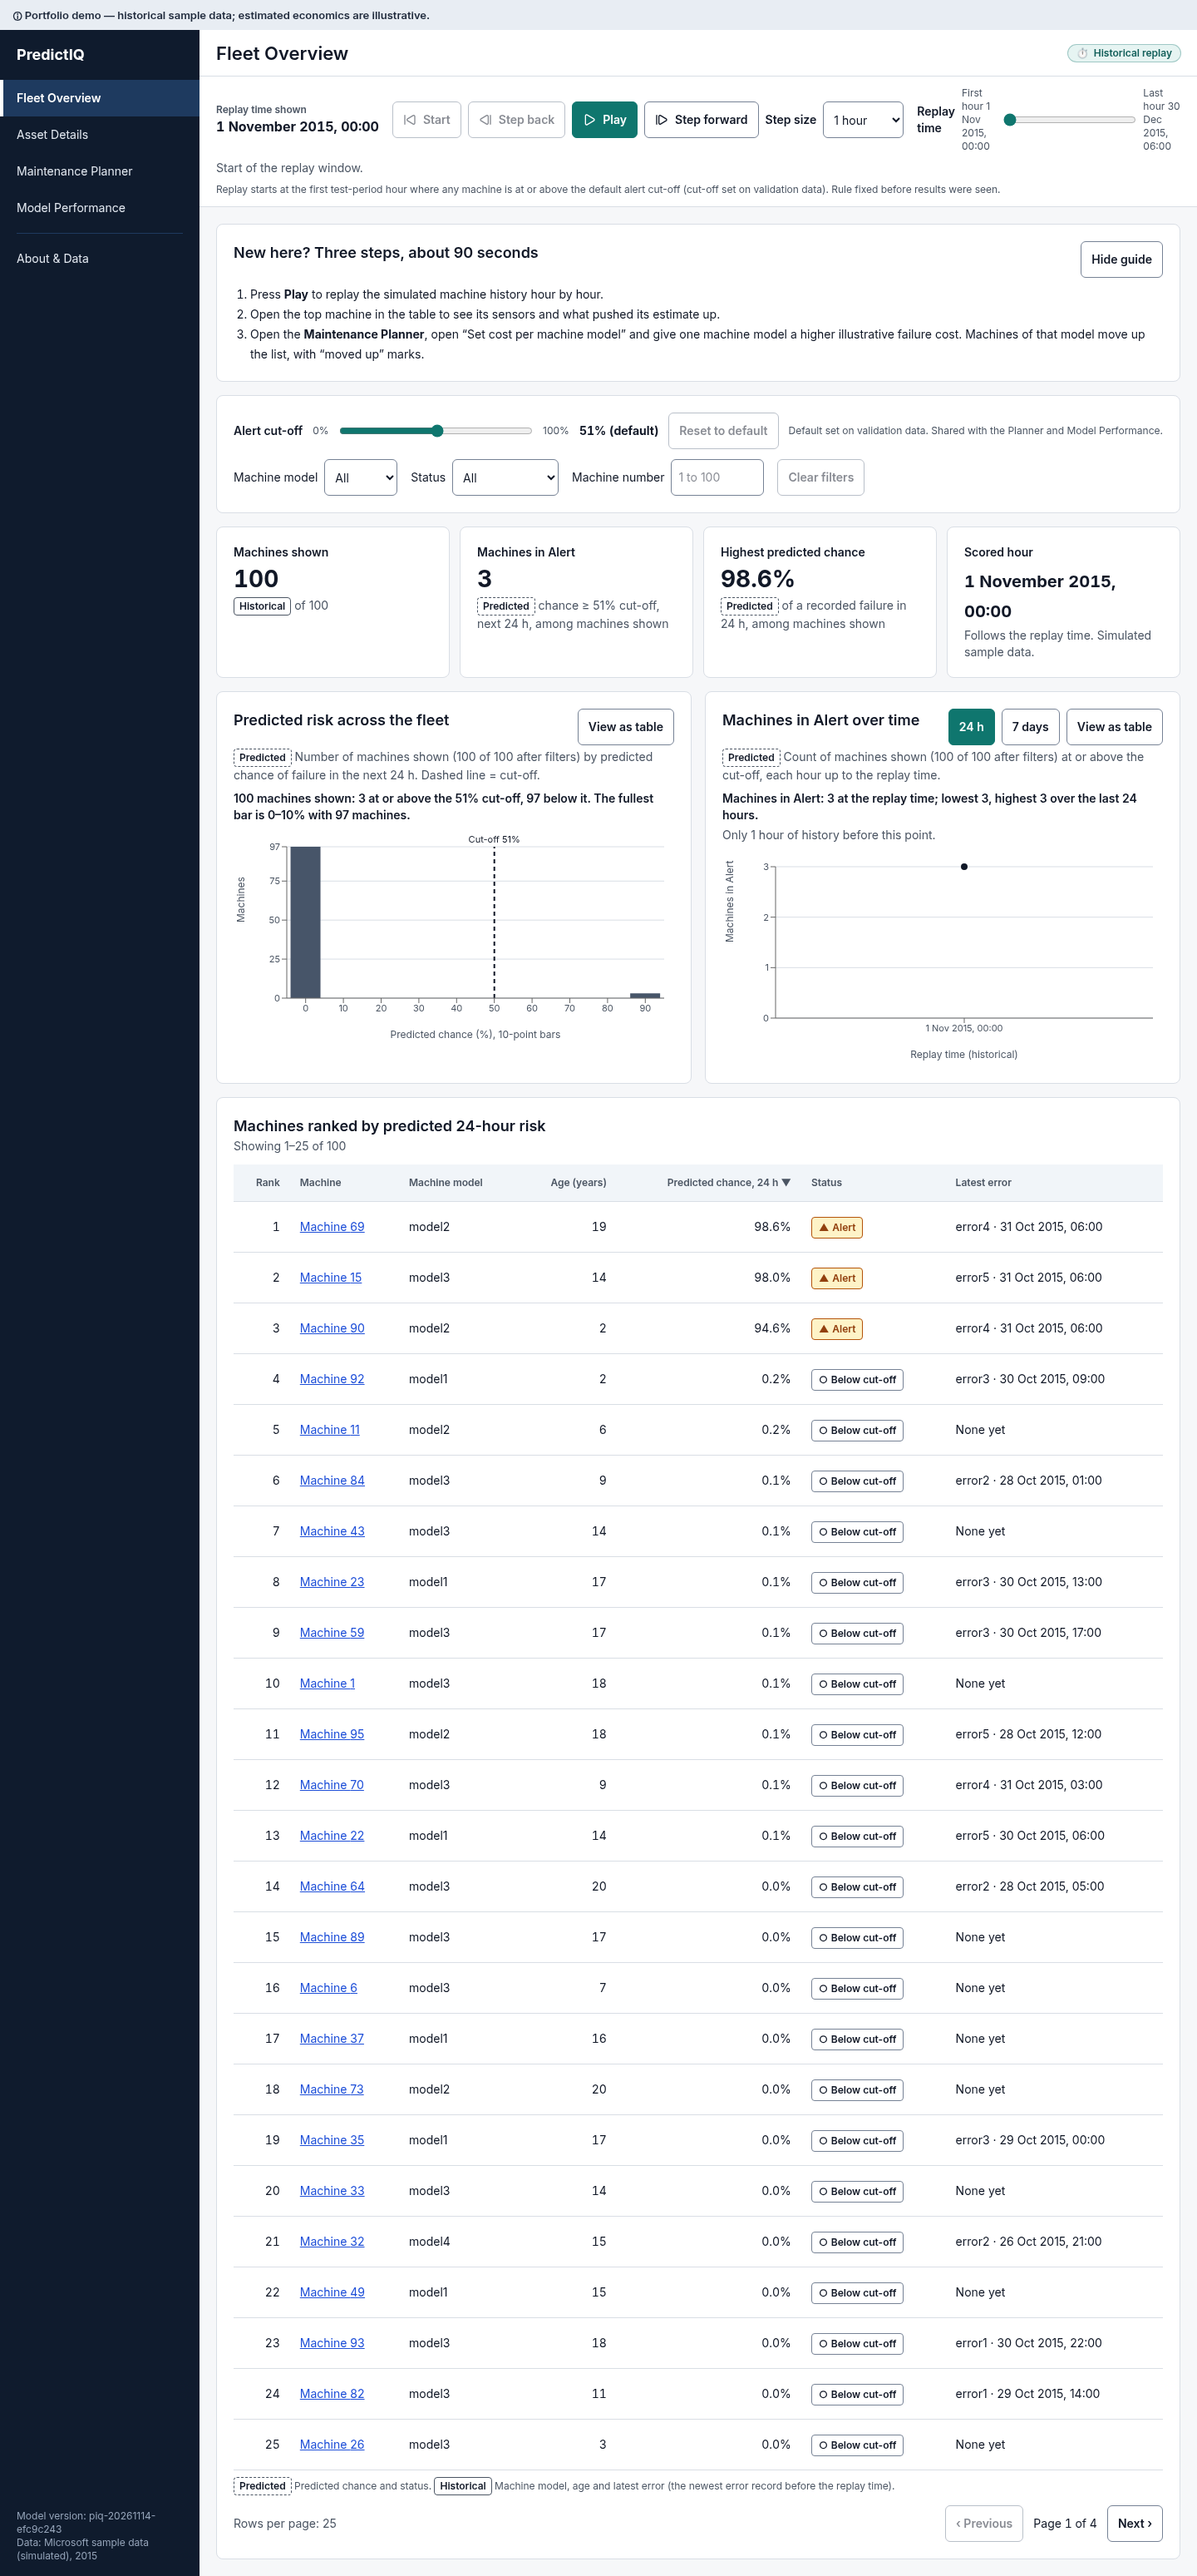
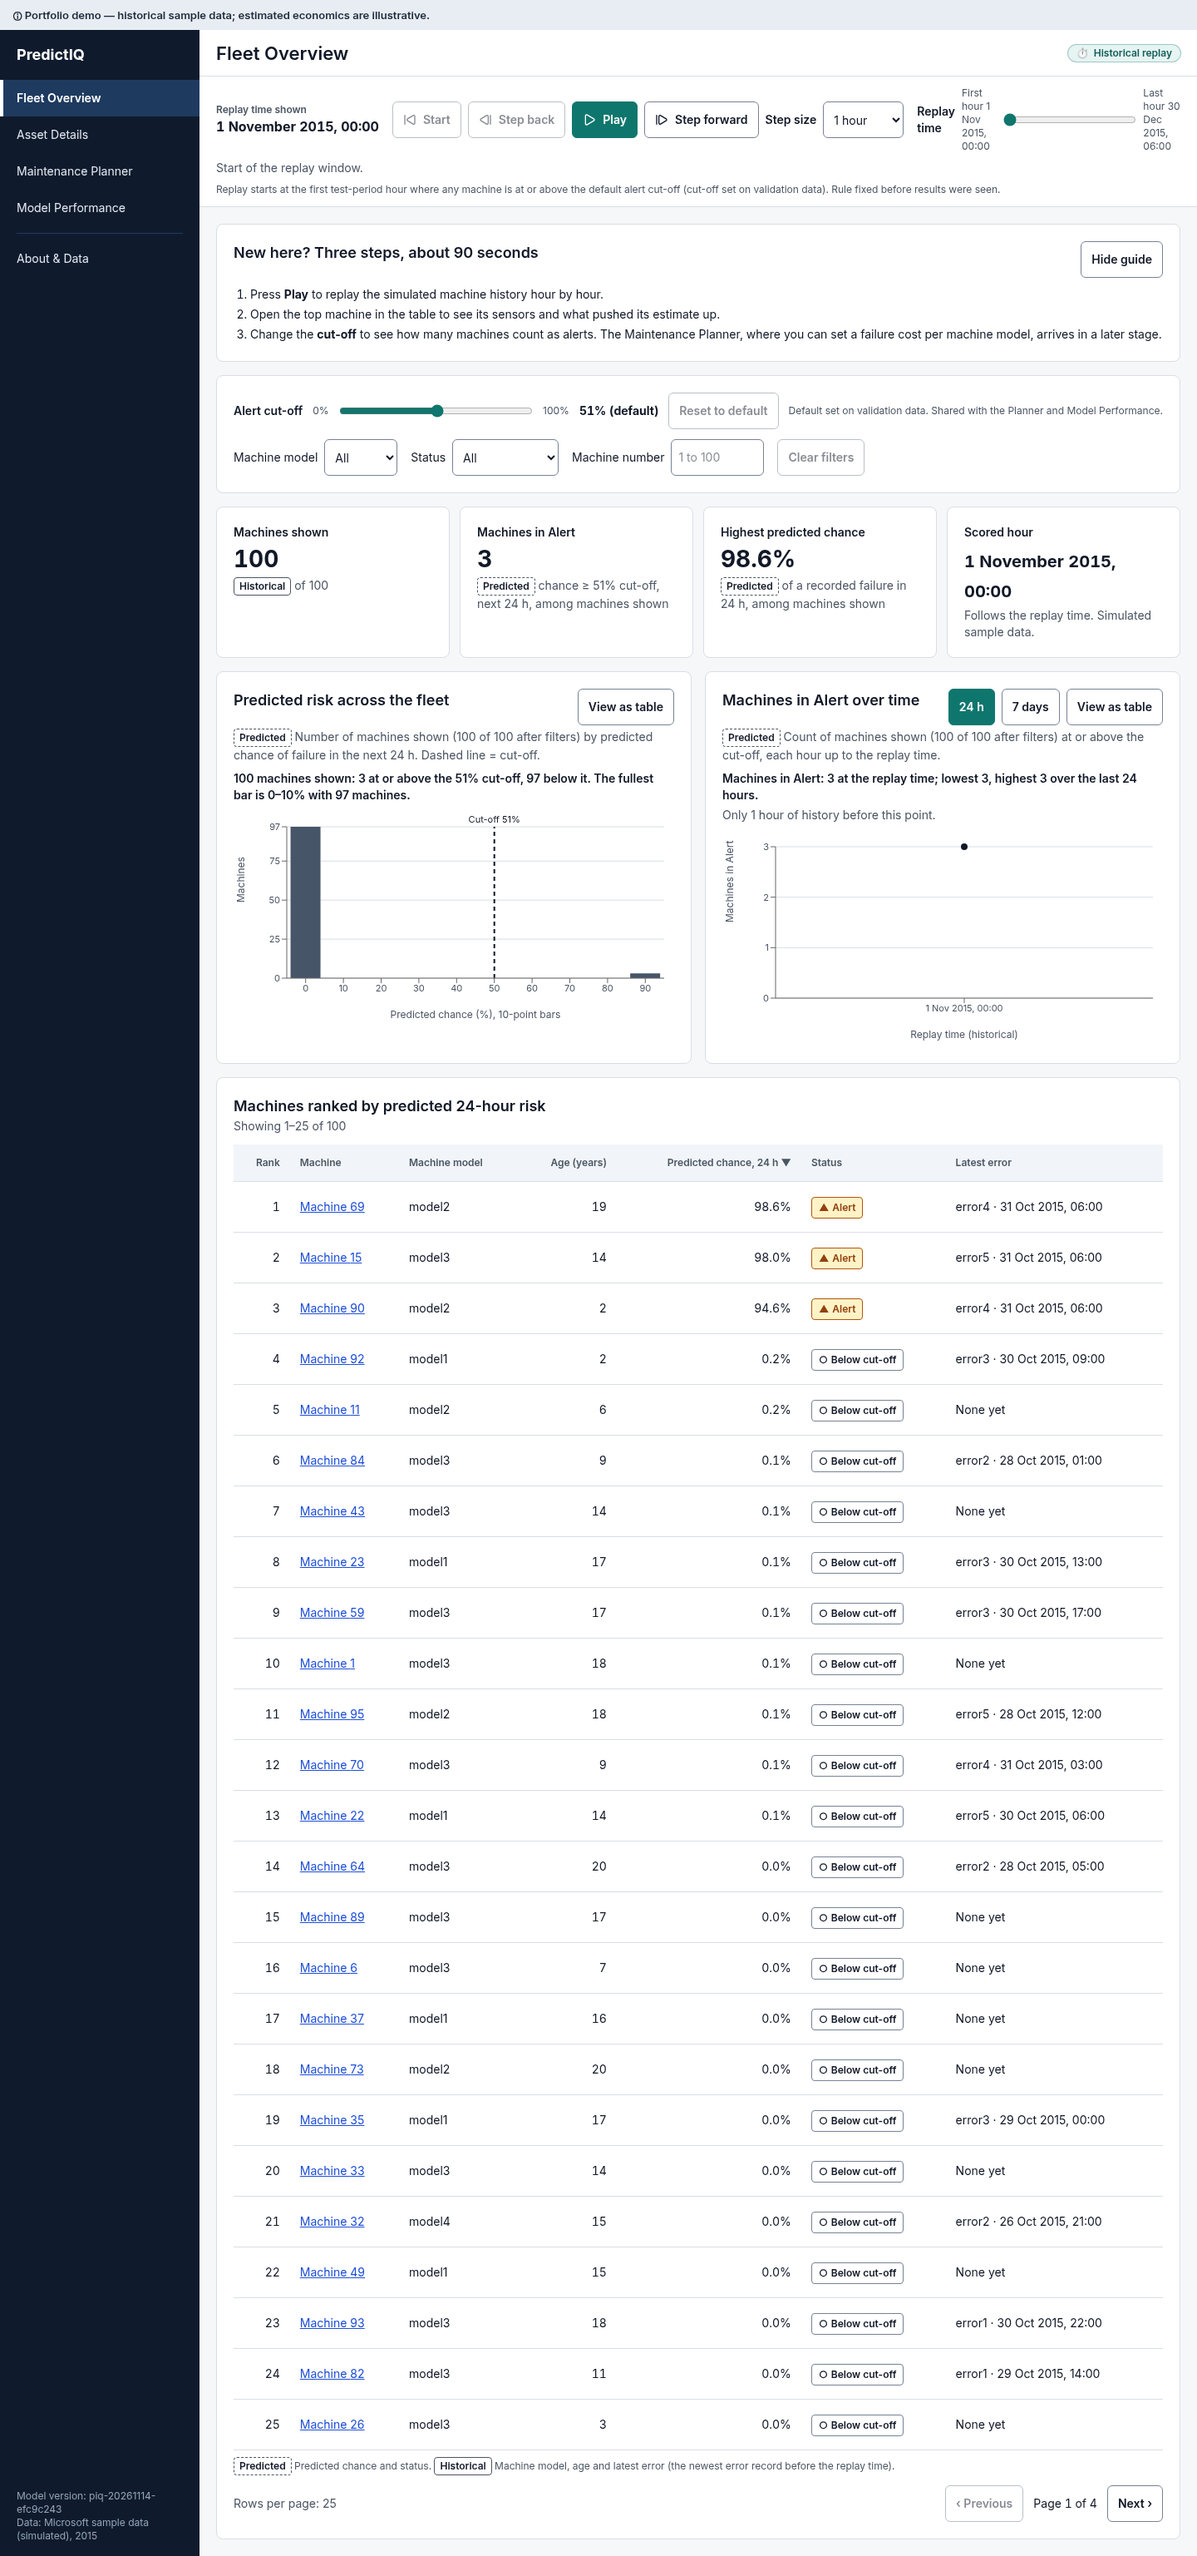
web: truthful visitor guide step until the planner exists; all asset charts as tables in screenshots; steadier replay tests

diff --git a/frontend/tests/replay-bar.test.tsx b/frontend/tests/replay-bar.test.tsx
@@ -14,7 +14,15 @@ const button = (name: RegExp | string) => screen.getByRole("button", { name });
 async function ready(path = "/") {
   mockPath = path;
   renderWithData(<ReplayBar />, fakeFetch(readyMetadata()));
-  await screen.findByRole("button", { name: "Play" });
+  // Generous timeout so a loaded machine (full parallel run) cannot time out before /metadata settles.
+  await screen.findByRole("button", { name: "Play" }, { timeout: 10_000 });
+  await waitFor(() => expect(screen.getByTestId("replay-time").textContent).toBeTruthy());
+}
+
+// Only the replay interval is faked: promises, microtasks and React's own scheduling stay real, so
+// nothing the test awaits can hang on a frozen clock.
+function useFakeInterval() {
+  vi.useFakeTimers({ toFake: ["setInterval", "clearInterval"] });
 }
 
 beforeEach(() => setAddress(""));
@@ -72,7 +80,7 @@ describe("replay bar", () => {
 
   it("Play steps once per second, Pause stops, and focus stays on the button", async () => {
     await ready();
-    vi.useFakeTimers();
+    useFakeInterval();
     const play = button("Play");
     play.focus();
     fireEvent.click(play);
@@ -92,7 +100,7 @@ describe("replay bar", () => {
 
   it("announces the replay time every sixth step only", async () => {
     await ready();
-    vi.useFakeTimers();
+    useFakeInterval();
     fireEvent.click(button("Play"));
     const announcer = screen.getByTestId("replay-announcer");
     await act(async () => {
@@ -108,7 +116,7 @@ describe("replay bar", () => {
   it("stops cleanly at the end: end state shown, Play and Step forward unavailable, never wraps, Jump to start works", async () => {
     setAddress("?at=2015-11-02T22:00");
     await ready();
-    vi.useFakeTimers();
+    useFakeInterval();
     fireEvent.click(button("Play"));
     await act(async () => {
       vi.advanceTimersByTime(10_000); // would be far past the end if it wrapped or kept going
@@ -132,7 +140,7 @@ describe("replay bar", () => {
   it("a 24 hour step that would overshoot the end lands on the last hour and stops", async () => {
     setAddress("?at=2015-11-02T12:00");
     await ready();
-    vi.useFakeTimers();
+    useFakeInterval();
     fireEvent.change(screen.getByLabelText("Step size"), { target: { value: "24" } });
     fireEvent.click(button("Play"));
     await act(async () => {

diff --git a/frontend/tests/fleet.test.tsx b/frontend/tests/fleet.test.tsx
@@ -242,6 +242,14 @@ describe("Fleet Overview", () => {
     expect(screen.queryByRole("table")).not.toBeInTheDocument();
   });
 
+  it("the guide only describes what exists: replay, Asset Details, cut-off; the Planner is said to come later", async () => {
+    renderWithData(<FleetOverviewPage />, server());
+    const guide = await screen.findByTestId("guide");
+    expect(guide).toHaveTextContent(/cut-off/);
+    expect(guide).toHaveTextContent(/arrives in a later stage/);
+    expect(guide).not.toHaveTextContent(/Set cost per machine model|moved up/);
+  });
+
   it("Hide guide hides it for the visit", async () => {
     const user = userEvent.setup();
     renderWithData(<FleetOverviewPage />, server());

diff --git a/frontend/components/fleet-screen.tsx b/frontend/components/fleet-screen.tsx
@@ -60,8 +60,8 @@ function Guide() {
         </li>
         <li>Open the top machine in the table to see its sensors and what pushed its estimate up.</li>
         <li>
-          Open the <strong>Maintenance Planner</strong>, open &ldquo;Set cost per machine model&rdquo; and give one machine model a higher
-          illustrative failure cost. Machines of that model move up the list, with &ldquo;moved up&rdquo; marks.
+          Change the <strong>cut-off</strong> to see how many machines count as alerts. The Maintenance Planner, where you can set a
+          failure cost per machine model, arrives in a later stage.
         </li>
       </ol>
     </section>

diff --git a/frontend/tests/app-shell.test.tsx b/frontend/tests/app-shell.test.tsx
@@ -39,7 +39,7 @@ describe("AppShell", () => {
     window.history.replaceState(null, "", "/?at=2015-11-02T00:00&cutoff=30&status=alert");
     service = fakeFetch(readyMetadata());
     renderShell();
-    await screen.findByRole("button", { name: "Play" });
+    await screen.findByRole("button", { name: "Play" }, { timeout: 10_000 });
     expect(screen.getByRole("link", { name: "Asset Details" })).toHaveAttribute(
       "href",
       "/asset-details?at=2015-11-02T00%3A00&cutoff=30",

diff --git a/STATUS.md b/STATUS.md
@@ -139,3 +139,4 @@ Independent review: first pass FAIL (1 High: the test window included hours with
 - 13 Nov 2026, 11:03 PM ET: preview of this branch deployed on Vercel (success); mobile menu now moves focus to the page after a link is used; independent review of the deploy evidence: hosting gate still open (only the non-commercial check is met).
 - 14 Nov 2026, 1:15 AM ET: live checks on the protected preview: routing, cold start, caching, rate limit and non-commercial use met; size checks met for the skeleton and to be measured again with the real model; one free rate-limit rule added; hosting stays on Vercel (independent review: its findings accepted and fixed).
 - 14 Nov 2026: QA fixes: `evaluate --verify` now recomputes the replay start from fresh scores (never the unhashed cache; new test covers a tampered cache); model card feature count corrected to 35. Model, results and bundle hash unchanged.
+- 14 Nov 2026: Stage 3 fix round 2: Fleet guide matches what is built (Planner step returns in Stage 4); replay tests made deterministic; screenshot notes corrected.

diff --git a/TASKS.md b/TASKS.md
@@ -66,3 +66,5 @@ Current stage: **Stage 3, core screens and data service (all 3 sessions done; aw
 - [ ] Re-review of the fix round.
 - [x] Cut-off control built (`components/cutoff-control.tsx`) and used on Fleet Overview; reuse on Planner and Model Performance in their stages.
 - [x] Update the About & Data status text.
+- [x] Fix round 2 (14 Nov 2026): Fleet Overview guide step 3 now describes the cut-off and says the Planner comes later; replay-bar tests made deterministic; screenshot README matches the charts-as-tables shots.
+- [ ] Stage 4: restore the Fleet Overview guide step "open Maintenance Planner, set a cost per machine model, watch machines move up" once the Planner is built (`components/fleet-screen.tsx`, and the guide test in `tests/fleet.test.tsx`).
